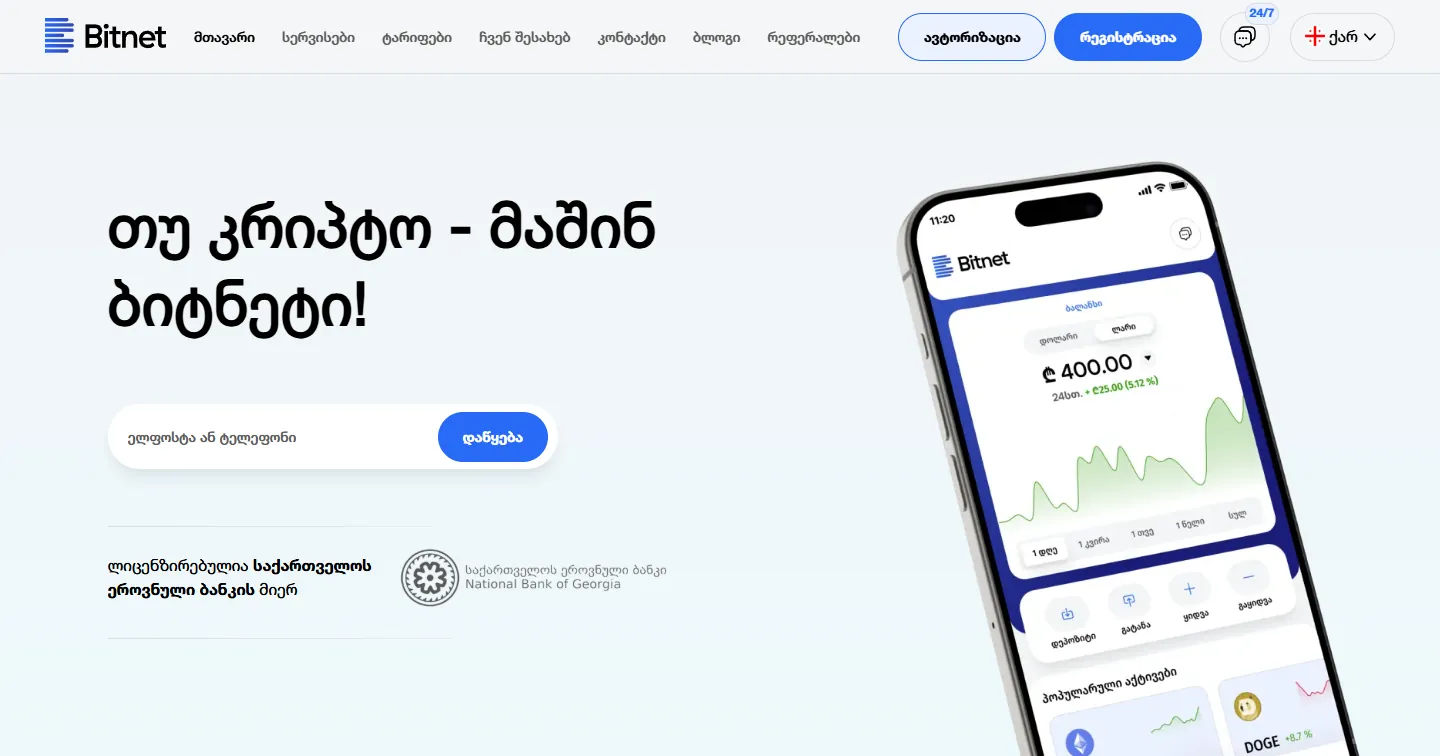
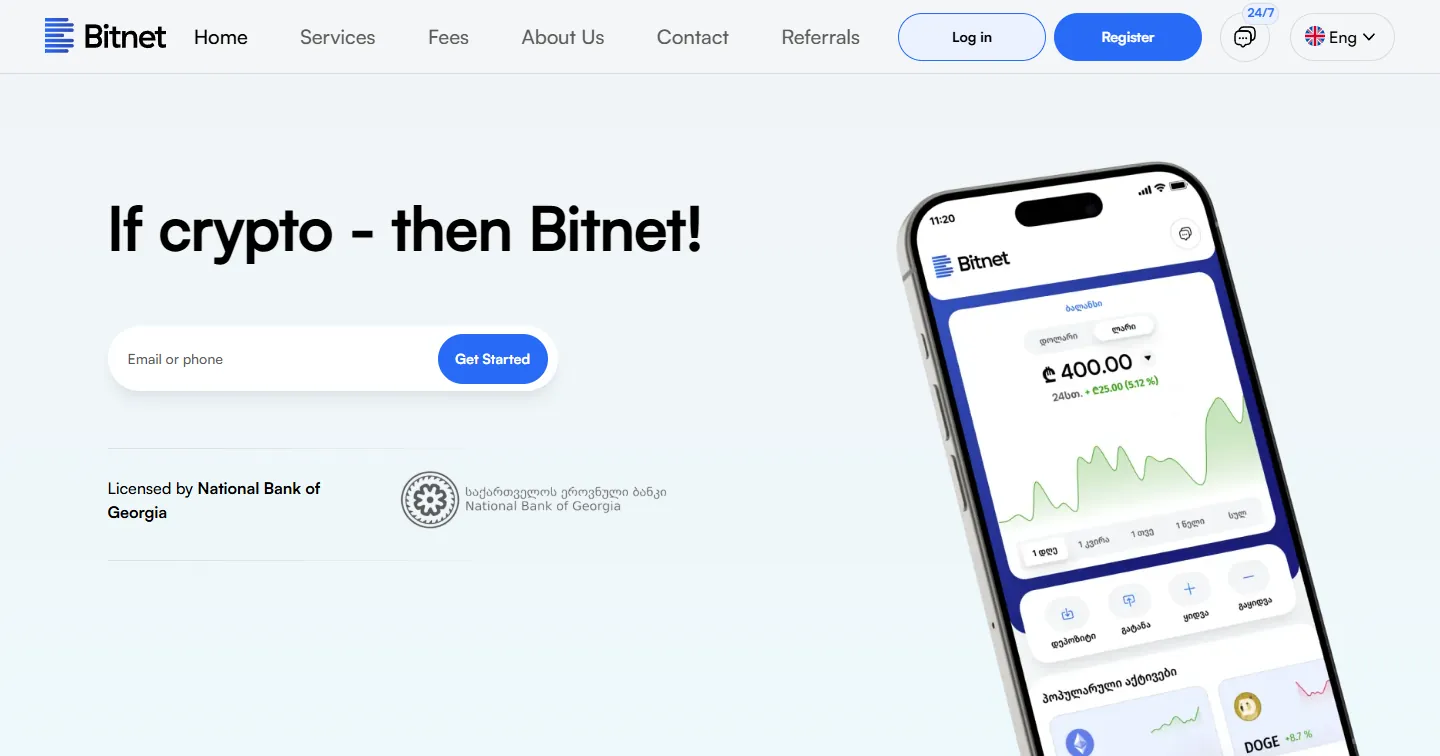
feature(home): phase 1f, short headline, company named less, cv on phones, english screenshots, new portrait

diff --git a/src/content/home.ts b/src/content/home.ts
@@ -19,13 +19,13 @@ export const seo = {
 };
 
 // The header links. On phones only the ones with phone: true show (no sideways scroll at 320 px).
-// "CV" is the quiet recruiter route (Phase 1d fix 11); phones reach /cv through the hero link and the footer.
+// "CV" is the quiet recruiter route (Phase 1d fix 11). Phase 1f: it shows on phones too (Saba, 2026-10-15).
 export const nav = [
   { label: "Work", href: "#work", phone: true },
   { label: "What I do", href: "#services", phone: false },
   { label: "About", href: "#about", phone: false },
   { label: "Contact", href: "#contact", phone: true },
-  { label: "CV", href: "/cv", phone: false },
+  { label: "CV", href: "/cv", phone: true },
 ];
 
 /** The main action everywhere on the home page: a plain email link (no booking page yet).
@@ -38,14 +38,19 @@ const book = (from: string) => `/book?from=${from}`;
 
 export const hero = {
   name: PERSON.name,
-  /** The one small line above the pitch. The only place the title appears on the first screen. */
-  role: "Principal Engineer, Bitnet",
+  /** The one small line above the headline. The only place the title appears on the first screen.
+   *  Phase 1f: no company name on the first screen (Saba, 2026-10-15: "don't highlight Bitnet that much"). */
+  role: "Principal Engineer · Fintech & AI",
+  // Phase 1f (Saba chose this on 2026-10-15): a short headline as the h1, the rest of the pitch in the subline.
+  headline: "AI agents for teams that move money, without losing a payment.",
+  subline: "I help fintech teams work with AI agents safely, and I build the AI features their product needs.",
+  /** The full one-sentence pitch (the design pages /design/a|b|c and the page description still use it). */
   pitch:
     "I help software teams that handle money work with AI agents safely — and I build the AI features their product needs.",
   // DRAFT (Saba approves): the one proof sentence under the pitch. Sources: bitnet.ge (licence),
   // Saba's confirmed facts of 2026-10-14/15 (title; what is live), the role history in about.bio.
   proofLine:
-    "Since 2023 I've helped build Bitnet, a crypto exchange licensed by the National Bank of Georgia — today I lead the architecture of its new core platform.",
+    "Since 2023 I've helped build a crypto exchange licensed by the National Bank of Georgia. Today I lead the architecture of its new core platform.",
   email: emailCta,
   // DRAFT (Saba approves): the quiet recruiter route next to the main button.
   hiring: { label: "Hiring? See my CV", href: "/cv" },
@@ -65,26 +70,27 @@ export const hero = {
 export type HeroNumber = { value: string; label: string; short: string; source: string };
 
 // DRAFT (Saba approves): the four numbers under the hero (Phase 1e: two for the company's scale, two for Saba's
-// own part). All true and dated. Sources: bitnet.ge's public counters (read 2026-10-15; re-check on the publish day)
+// own part). All true and dated. Phase 1f: the labels don't name the company; the source lines keep "bitnet.ge"
+// so a reader can check the numbers (Saba, 2026-10-15). Sources: bitnet.ge's public counters (read 2026-10-15; re-check on the publish day)
 // and the private research notes of 2026-10-14 (private/research/, not in git). "38 of 38": every customer action
 // must declare how a repeat is handled, or the build fails; Saba's rule, live since the September 2026 release.
 // The label says "checks for repeat safety", not "runs once", on purpose.
 // Left out on purpose: "Since 2023" (repeats the proof sentence), PlayTime's "27" (a side project),
 // "#1 of 28 contributors" (vanity), "4 hours" and "109 of 109 commits by an AI agent" (weak oversight to a buyer).
 export const heroNumbers: HeroNumber[] = [
-  { value: "219,764", label: "registered users on Bitnet", short: "users on Bitnet", source: "bitnet.ge, Oct 2026" },
-  { value: "2,538,923", label: "transactions on Bitnet", short: "transactions on Bitnet", source: "bitnet.ge, Oct 2026" },
+  { value: "219,764", label: "registered users on the exchange I help build", short: "registered users", source: "bitnet.ge, Oct 2026" },
+  { value: "2,538,923", label: "transactions on the same exchange", short: "transactions", source: "bitnet.ge, Oct 2026" },
   {
     value: "237 of 278",
-    label: "architecture decisions for Bitnet's new core platform, written up by me",
+    label: "architecture decisions for its new core platform, written up by me",
     short: "architecture decisions by me",
-    source: "Bitnet code, Oct 2026",
+    source: "platform code, Oct 2026",
   },
   {
     value: "38 of 38",
     label: "customer actions the build checks for repeat safety, under a rule I wrote",
     short: "actions checked for repeats",
-    source: "Bitnet, live Sep 2026",
+    source: "live since Sep 2026",
   },
 ];
 
@@ -206,8 +212,8 @@ export const offers = {
     {
       title: "Fintech & payment systems",
       text: "Payments, ledgers, identity checks and staff tools that stay correct even when a request arrives twice.",
-      proof: "Live at Bitnet: the payment-provider integration I built, with bank-app deposits, card payments and recurring card charges.",
-      link: { label: "Bitnet", href: "#work-bitnet", dir: "down" },
+      proof: "Live on the exchange I help build: the payment-provider integration I built, with bank-app deposits, card payments and recurring card charges.",
+      link: { label: "The work", href: "#work-bitnet", dir: "down" },
     },
   ],
 };
@@ -343,8 +349,9 @@ export type WorkItem = {
   tags: string[];
   tech: string[];
   /** taken: when the screenshot was made (public pages change; the date keeps it honest).
-   *  caption: the dated line under the image on the home page (only the big Bitnet card shows an image). */
-  image: { src: string; width: number; height: number; alt: string; taken?: string; caption?: string };
+   *  caption: the dated line under the image on the home page (the big Bitnet card).
+   *  thumb: the small card shows the image as a small picture (Phase 1f: PlayTime and WasteAway, English pages). */
+  image: { src: string; width: number; height: number; alt: string; taken?: string; caption?: string; thumb?: boolean };
   url?: string;
 };
 
@@ -374,9 +381,9 @@ export const work: { heading: string; intro: string; big: WorkItem[]; small: Wor
         src: "/projects/bitnet.webp",
         width: 1440,
         height: 756,
-        alt: "The bitnet.ge home page in Georgian, with the Bitnet app on a phone",
+        alt: "The bitnet.ge home page in English, with the Bitnet app on a phone",
         taken: "15 Oct 2026",
-        caption: "bitnet.ge home page, Georgian, Oct 2026",
+        caption: "bitnet.ge home page, English, Oct 2026",
       },
       url: "https://bitnet.ge",
     },
@@ -392,7 +399,7 @@ export const work: { heading: string; intro: string; big: WorkItem[]; small: Wor
       tags: ["Marketplace", "AI agents", "Web + mobile"],
       tech: ["NestJS", "GraphQL", "Next.js", "Expo", "PostgreSQL"],
       // New screenshot of the live site, 2026-10-15 (the old one showed numbers that were not true).
-      image: { src: "/projects/playtime.webp", width: 1440, height: 900, alt: "The playtime.ge home page", taken: "15 Oct 2026" },
+      image: { src: "/projects/playtime.webp", width: 1440, height: 900, alt: "The playtime.ge home page", taken: "15 Oct 2026", thumb: true },
       url: "https://playtime.ge",
     },
     {
@@ -406,7 +413,8 @@ export const work: { heading: string; intro: string; big: WorkItem[]; small: Wor
       text: "Door-to-door garbage pickup for apartment buildings in Tbilisi. I'm building it from zero — brand, website and operations.",
       tags: ["Startup", "AI agents", "Cloudflare"],
       tech: ["Astro", "TypeScript", "Cloudflare Workers", "Cloudflare D1"],
-      image: { src: "/projects/wasteaway.webp", width: 1440, height: 900, alt: "The wasteaway.ge home page", taken: "13 Oct 2026" },
+      // Retaken in English on 2026-10-15 (Phase 1f).
+      image: { src: "/projects/wasteaway.webp", width: 1440, height: 900, alt: "The wasteaway.ge home page in English", taken: "15 Oct 2026", thumb: true },
       url: "https://wasteaway.ge",
     },
   ],
@@ -496,8 +504,8 @@ export const openSource = {
 export const about = {
   heading: "About",
   bio: [
-    // DRAFT (Saba approves): the Bitnet role history.
-    "I'm a Principal Engineer based in Georgia. Since January 2023 I've worked on Bitnet, a licensed crypto exchange: first its customer web app, then its backend, and now its new core platform, whose architecture I lead.",
+    // DRAFT (Saba approves): the role history. Phase 1f: no company name here; the work card names it.
+    "I'm a Principal Engineer based in Georgia. Since January 2023 I've worked on a licensed crypto exchange: first its customer web app, then its backend, and now its new core platform, whose architecture I lead.",
     "On the side I build my own products, PlayTime and WasteAway, with AI agents doing most of the coding.",
   ],
   /** Short rows under the bio (Phase 1 design pages; the home page shows the grouped stack below instead). */

diff --git a/STATUS.md b/STATUS.md
@@ -10,7 +10,7 @@
 - **Pitch (since 2026-04-20):** Senior Full-Stack Engineer, 3 years in production fintech (Bitnet), Backend Lead at Chama, founder of Playtime.ge, WasteAway and UniHub.
 - **Projects shown, in this order:** Bitnet.ge, Playtime.ge, WasteAway, Chama.ge, UniHub. (Bitnet and WasteAway added 2026-10-13; see the log.)
 - **Deploy:** a push to `main` publishes it automatically on Vercel.
-- **Rebuild (branch `rebuild`, local only, not pushed):** a new Astro 7 site. Phase 1 (skeleton + four design directions), Phase 1b (the notebook home page) and Phase 1c (the calm reset) are done. **Phase 1e is done:** "Calm, with one live proof": Newsreader headings, the lab's payment-race figure in the hero, a rebuilt numbers row, and the 15 Phase 1d fixes. Its text is a draft until Saba approves it. The live site on `main` is untouched.
+- **Rebuild (branch `rebuild`, local only, not pushed):** a new Astro 7 site. Phase 1 (skeleton + four design directions), Phase 1b (the notebook home page) and Phase 1c (the calm reset) are done. **Phase 1e is done:** "Calm, with one live proof": Newsreader headings, the lab's payment-race figure in the hero, a rebuilt numbers row, and the 15 Phase 1d fixes. **Phase 1f is done:** a short headline, the company named less, CV in the phone menu, English screenshots and a new portrait. Its text is a draft until Saba approves it. The live site on `main` is untouched.
 
 ## Open problems (most important first)
 
@@ -34,12 +34,21 @@
   - `src/content/cv.ts`: the whole `/cv` role list.
   - **The texts inside the hero figure** (they live in the lab's package; changes go to the lab session): the screen-reader title "Two withdrawals of 80 from a balance of 100, running at the same time"; the steps "load the customer", "read the balance, check 80 ≤ balance", "save the new balance", "pay out"; "paid 80" / "refused"; "Balance", "Paid out", "Short"; the caption "Order 11 of 54. Both passed the check. Balance 20, paid out 160." (and the other orders' captions, for example "B read 20 and was refused. Balance 20, paid out 80."); "Run another order", "Pause" / "Play", "Find the bug →"; the note "Each run is a recorded trace of the game's real code, checked by a test on every build."
 - **Before launch, the lab must be live:** the figure's "Find the bug →" link goes to `lab.sabajanelidze.com/day/payments?from=portfolio-home`, and that address does not exist yet (2026-10-15).
-- A better portrait from Saba (the current one has a white studio background; it shows as a bright square in the dark theme).
+- A better portrait: photo #31 of the 15 Oct shoot is in for now (Phase 1f). A reshoot with side light and a slight smile would beat it.
 - A 5-second test of the first screen with 2 or 3 real people (one picture per theme).
 - The lab site gets design tokens **version 3** (`src/styles/tokens.css`; what changed is at the top of `docs/design-tokens.md`).
 - Before launch: re-check the bitnet.ge counters (219,764 users, 2,538,923 transactions on 2026-10-15).
 
 ## Log
+
+- **2026-10-15 (rebuild, Phase 1f, Saba's 7 questions):**
+  - **Headline:** the 21-word pitch was too big (5 lines on desktop, the whole phone screen). Now a short headline, "AI agents for teams that move money, without losing a payment.", with the rest in a subline under it: "I help fintech teams work with AI agents safely, and I build the AI features their product needs." Saba chose it.
+  - **The company named less:** the first screen, the number labels, the offer proof and About now say "a licensed crypto exchange" or "the exchange I help build". Bitnet is named in the work card. The small source lines keep "bitnet.ge, Oct 2026", so a reader can check the numbers.
+  - **CV:** the "CV" link now shows in the phone menu too (it fits at 320 px).
+  - **Screenshots in English:** bitnet.ge (switched with the site's own language menu, app banner closed, cropped above the counters) and wasteaway.ge/en, both 15 Oct. The PlayTime and WasteAway cards now show a small picture of their live page. Note: `bitnet.ge/en` answers "200 OK" but shows a "page not found" page, so a status code alone doesn't prove a page exists.
+  - **Portrait:** photo #31 of a new shoot, square, edited with PhotoCraft (an open-source photo editor): the yellow wall made neutral, shadows lifted a little, mild contrast. The face itself isn't changed.
+  - **Motion:** the home page keeps one moving thing (the race figure). The parked step-by-step animation goes on the How I work page later. A short video and a Lab page come later too.
+  - **Checks:** `npm run verify` 0 errors; Lighthouse mobile 100 x 4 in both themes, LCP 1.73 s, 5.5 KB JS; contrast audit 0 failures (4 pages, both themes, desktop and phone); live check on the restarted dev server at 1440, 390 and 320 px: no console errors, no sideways scroll, every image loads. Phone length 8.8 screens (was 8.3; the two new pictures).
 
 - **2026-10-15 (rebuild, Phase 1e "Calm, with one live proof"):** The calm home page got a voice and one working object. Saba chose the direction after a third round of reviews.
   - **Type:** headings, the big numbers and the Bitnet card title in **Newsreader** (a serif), one self-hosted 25 KB file (weight 500, optical size 24 to 72, Latin), preloaded, with a metric-matched Georgia fallback. Body stays Inter. Sources, dates and money figures in a small monospace (0 KB). Georgian headings will use Noto Sans Georgian.
